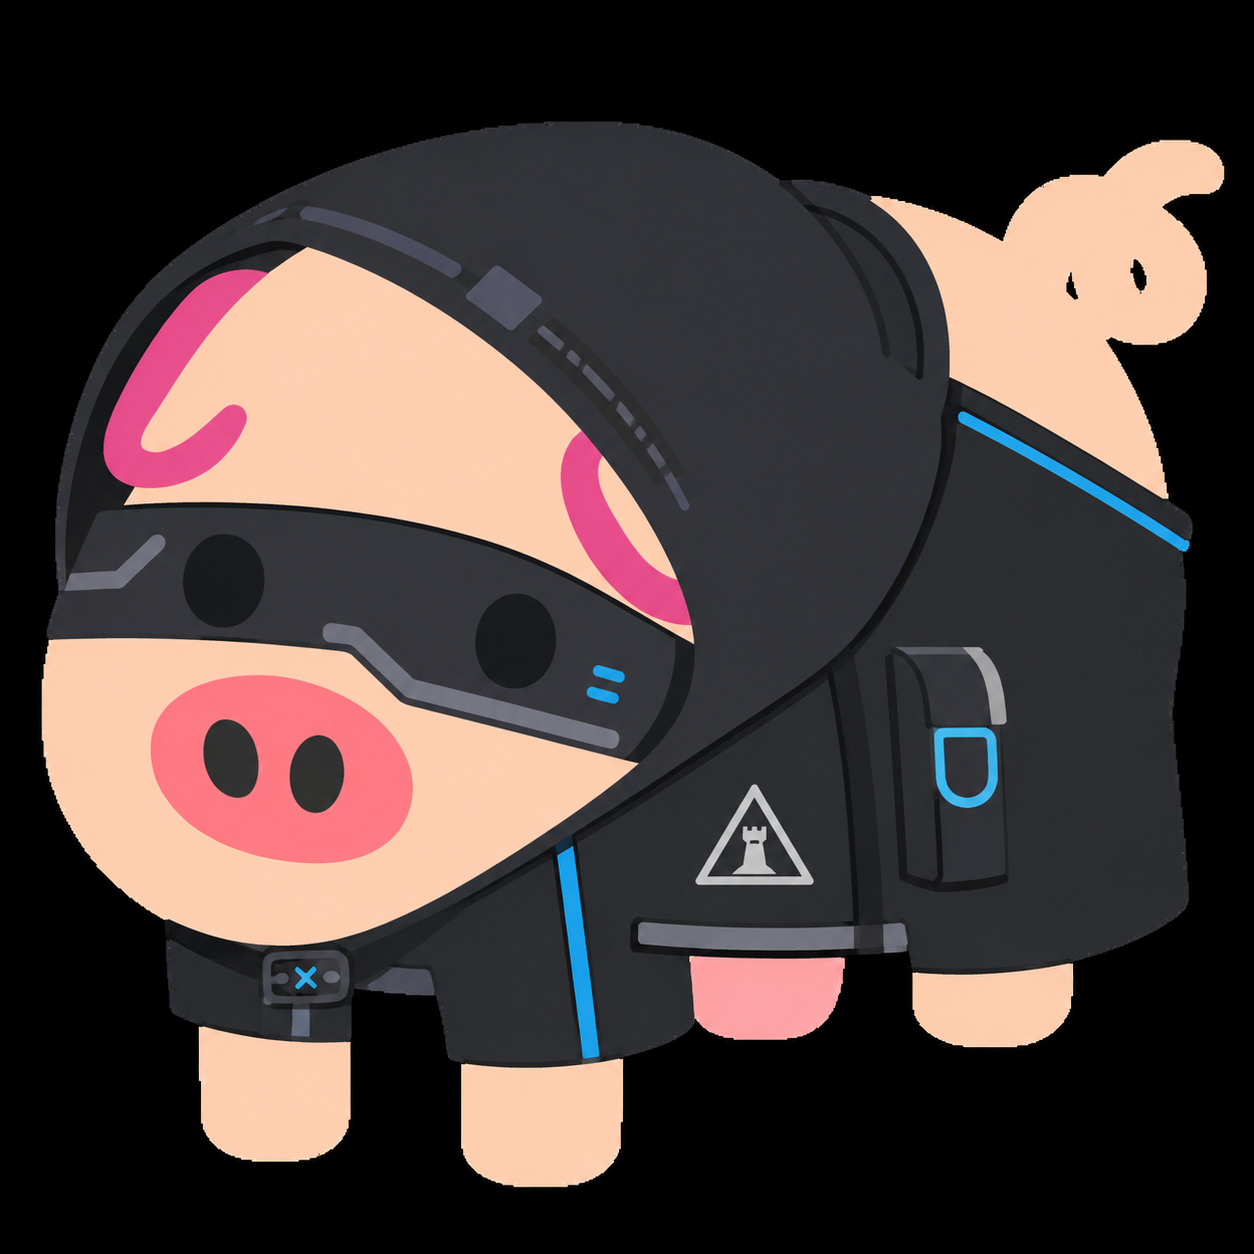
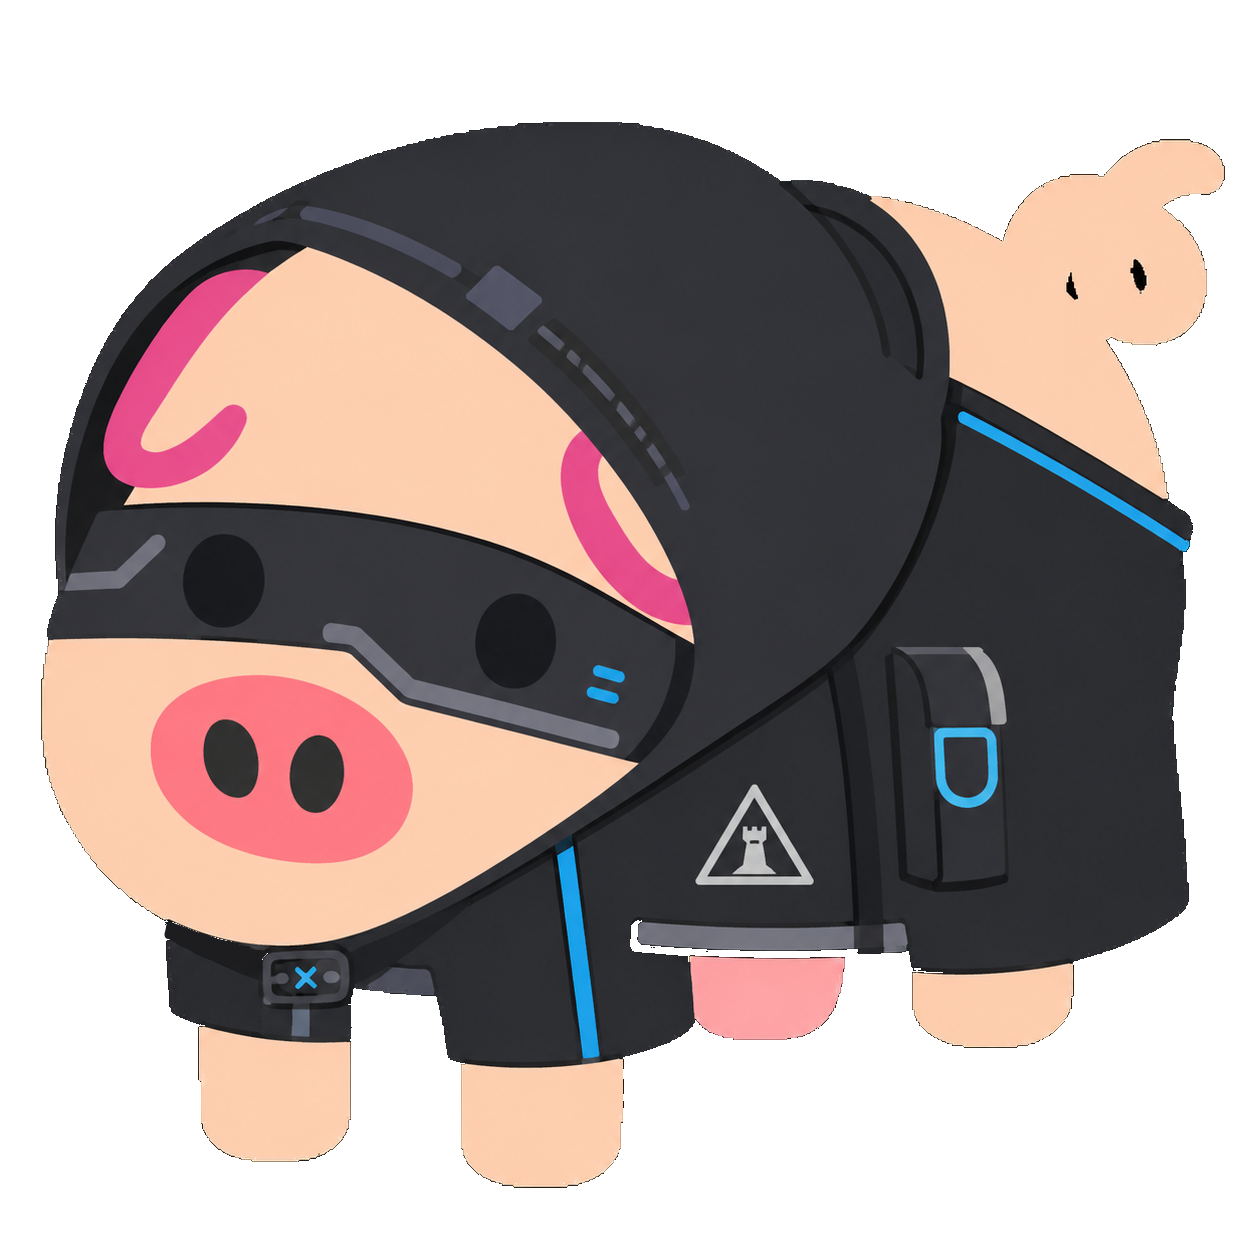
fix：修复一些渲染效果

diff --git a/rollpig/render.py b/rollpig/render.py
@@ -3,7 +3,7 @@ from pathlib import Path
 from typing import Any
 
 from PIL import Image as PILImage
-from PIL import ImageDraw, ImageFont
+from PIL import ImageDraw, ImageFont, ImageOps
 
 
 class PigImageRenderer:
@@ -101,6 +101,19 @@ class PigImageRenderer:
         self._log("warning", f"未找到小猪ID {pig_id} 对应的图片文件")
         return None
 
+    def _prepare_avatar(self, image: PILImage.Image) -> PILImage.Image:
+        avatar = ImageOps.exif_transpose(image).convert("RGBA")
+        resampling = getattr(PILImage, "Resampling", PILImage).LANCZOS
+        avatar.thumbnail((self.AVATAR_SIZE, self.AVATAR_SIZE), resampling)
+
+        avatar_canvas = PILImage.new(
+            "RGBA", (self.AVATAR_SIZE, self.AVATAR_SIZE), (255, 255, 255, 0)
+        )
+        avatar_x = (self.AVATAR_SIZE - avatar.width) // 2
+        avatar_y = (self.AVATAR_SIZE - avatar.height) // 2
+        avatar_canvas.alpha_composite(avatar, (avatar_x, avatar_y))
+        return avatar_canvas
+
     def render_pig_image(self, pig_data: dict) -> Path | None:
         pig_id = pig_data.get("id", "")
         pig_name = pig_data.get("name", "未知小猪")
@@ -117,19 +130,8 @@ class PigImageRenderer:
         avatar_path = self.find_image_file(pig_id)
         if avatar_path:
             try:
-                avatar = PILImage.open(avatar_path)
-                avatar.thumbnail((avatar_w, avatar_h))
-                if avatar.size != (avatar_w, avatar_h):
-                    center_x = avatar.width // 2
-                    center_y = avatar.height // 2
-                    half = self.AVATAR_SIZE // 2
-                    crop_box = (
-                        center_x - half,
-                        center_y - half,
-                        center_x + half,
-                        center_y + half,
-                    )
-                    avatar = avatar.crop(crop_box)
+                with PILImage.open(avatar_path) as image:
+                    avatar = self._prepare_avatar(image)
             except Exception as e:
                 self._log("error", f"加载小猪图片失败：{str(e)}")
                 avatar = None
@@ -213,4 +215,3 @@ class PigImageRenderer:
         except Exception as e:
             self._log("error", f"合成图片失败：{str(e)}")
             return None
-
